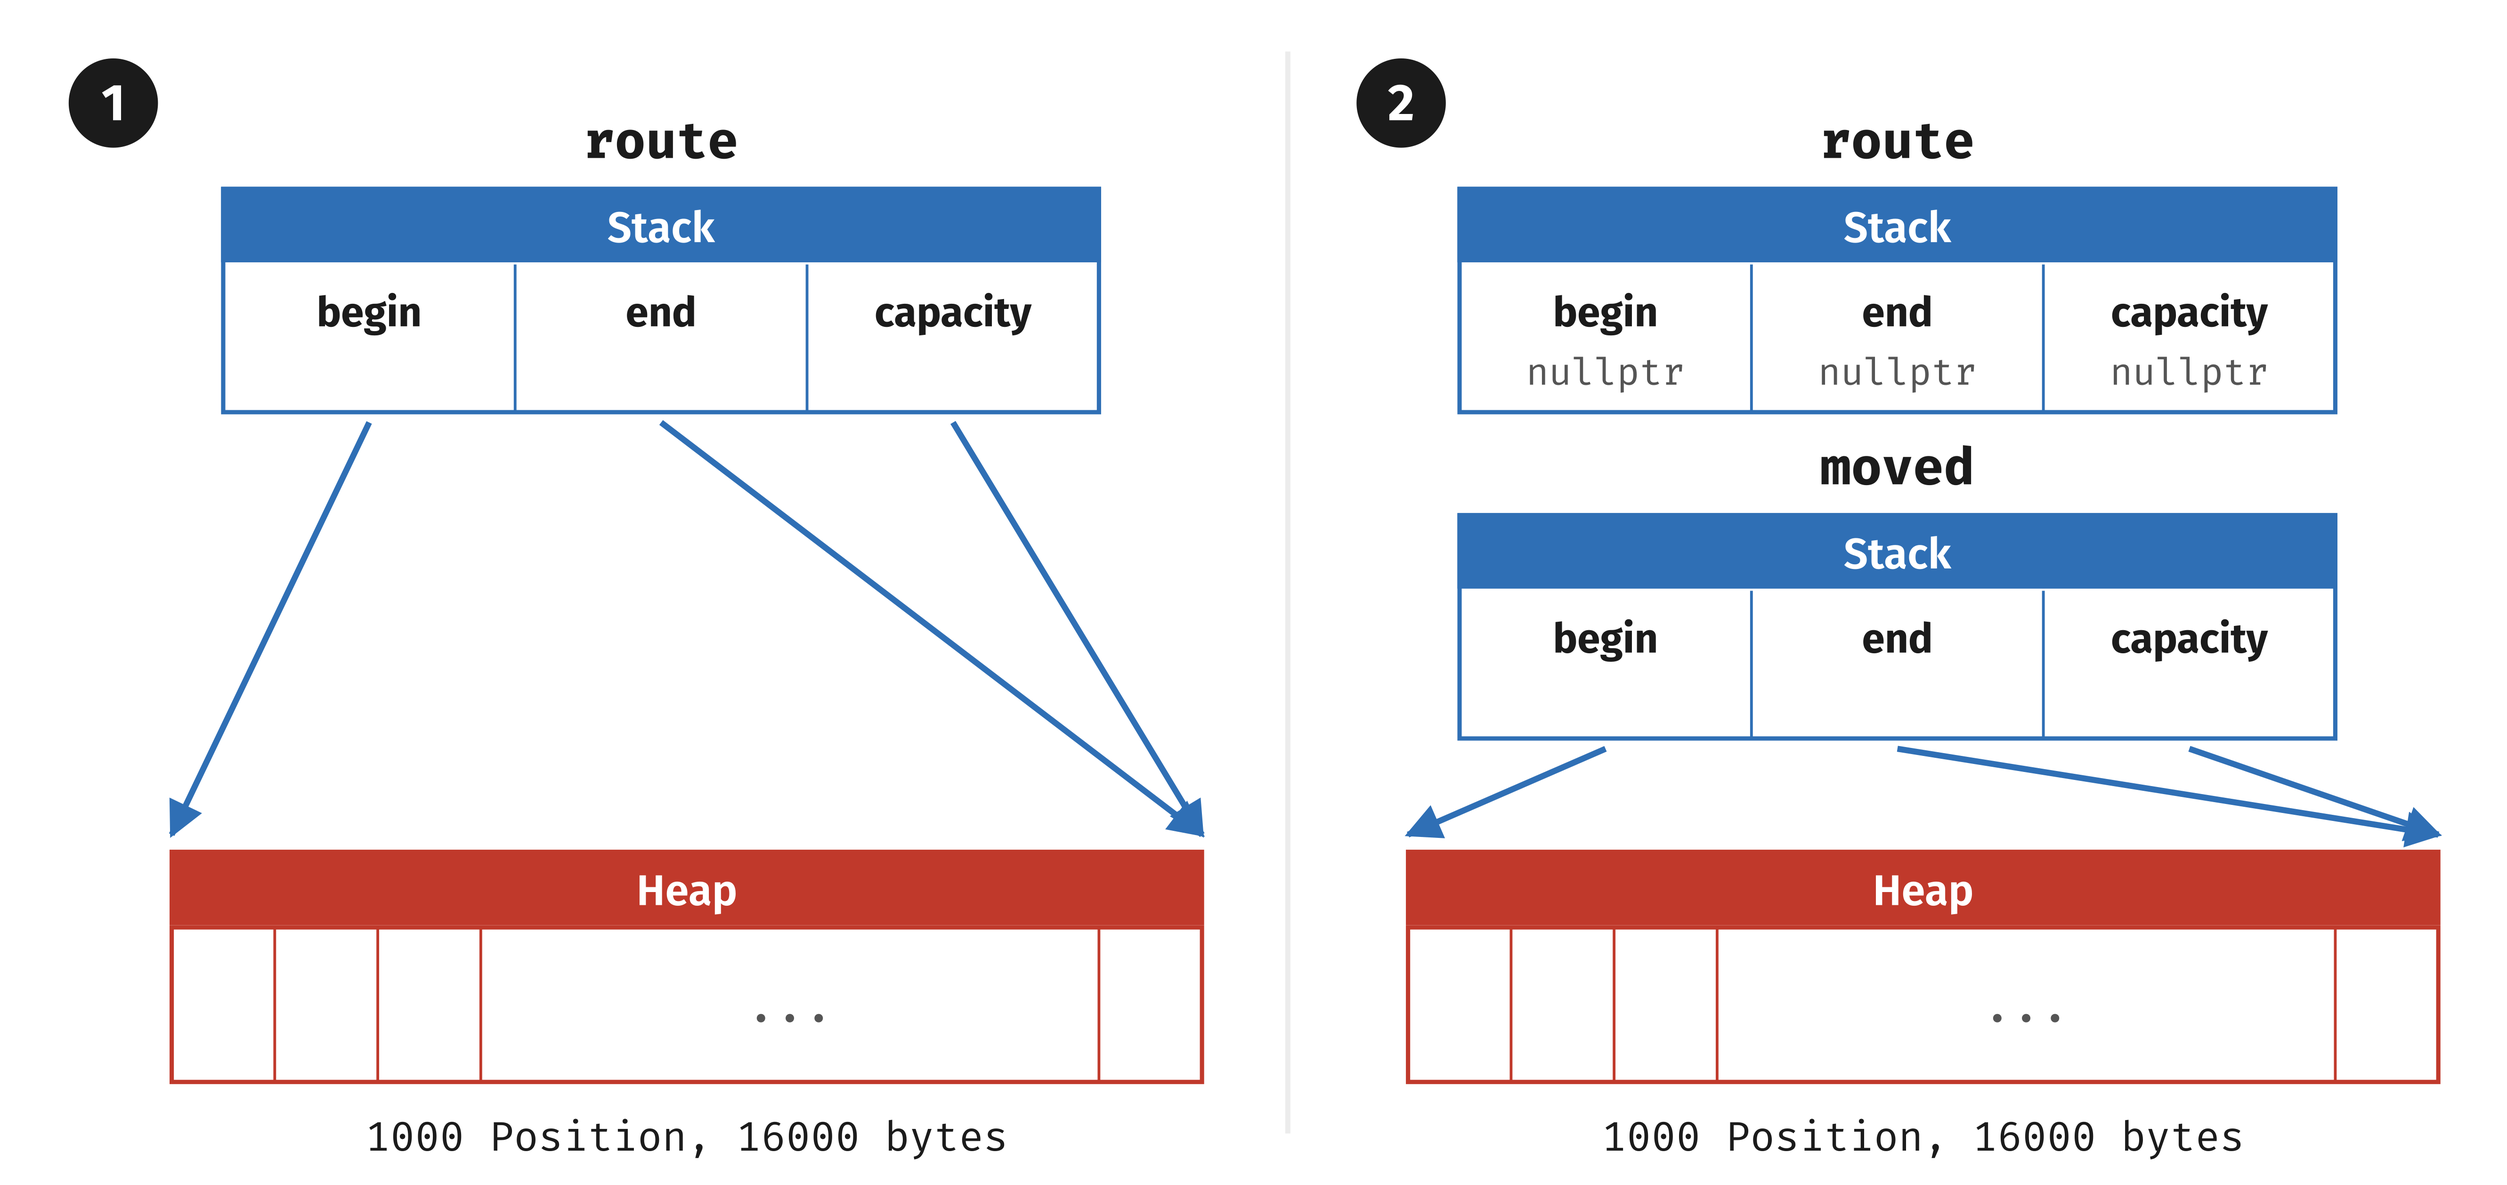
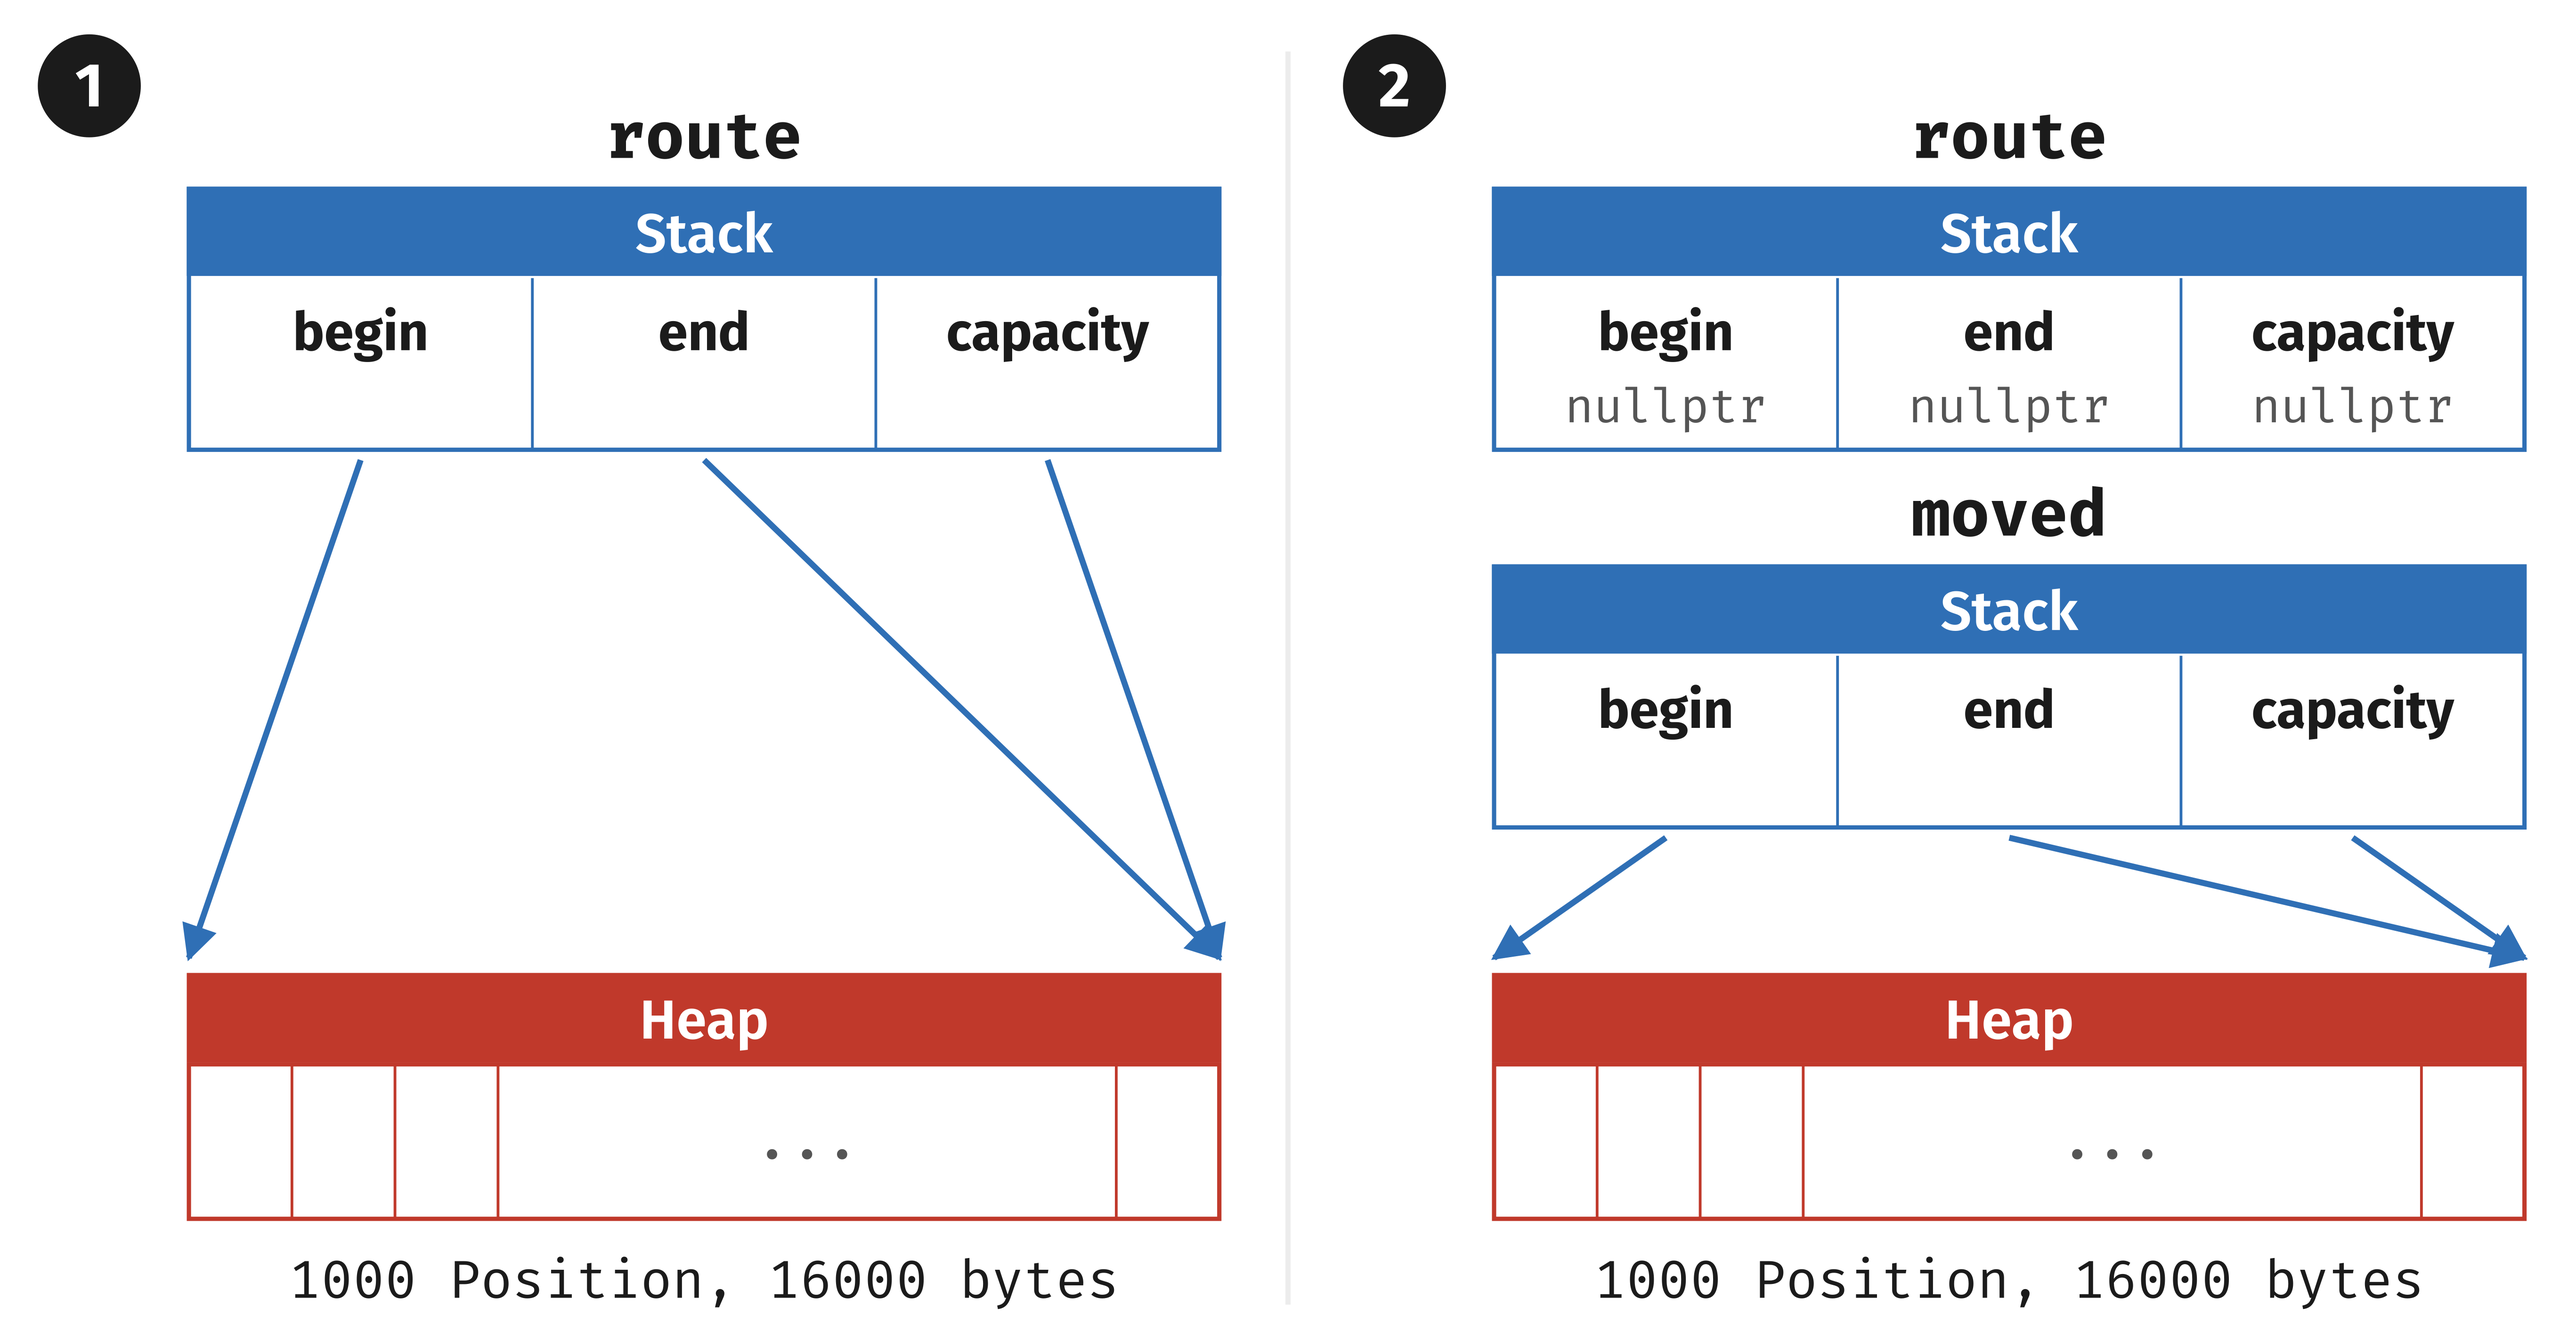
Lecture 7: Inside a Copy, as in the deck
Add the deck's new Inside a Copy section and figure, take the larger
move figure, and renumber the run commands after the new slide.

diff --git a/docs/source/lectures/lecture7/l7_lecture.rst b/docs/source/lectures/lecture7/l7_lecture.rst
@@ -257,6 +257,20 @@ Handing a Route to a Robot
 - The copy allocates a new block, 1000 × 16 bytes = 16000 bytes, and copies every ``Position``. ``route`` is unchanged.
 - The move allocates nothing. ``moved`` holds the block ``route`` had, at the same address, and ``route`` is left empty.
 
+Inside a Copy
+^^^^^^^^^^^^^
+
+.. figure:: /_static/images/l7/vector_copy.png
+   :alt: Two blue Stack boxes side by side, named route and copied, each with three fields, begin, end and capacity. Below each one is its own red Heap block labeled 1000 Position, 16000 bytes. Three blue arrows drop from each box's fields to its own block: begin to the first cell, end and capacity both to the end of the last cell. No arrow joins the two sides.
+   :align: center
+   :width: 100%
+
+   A ``std::vector`` and its copy: each one owns its own block.
+
+- After ``std::vector<Position> copied{route}``, each vector holds three pointers into its own block (`Handing a Route to a Robot`_: the two ``data()`` differ).
+- Two blocks of 16000 bytes now hold the same 1000 waypoints: 2 × 16000 = 32000 bytes.
+- Each vector frees its own block when it goes out of scope.
+
 Inside a Move
 ^^^^^^^^^^^^^
 
@@ -356,7 +370,7 @@ lvalues
    first_robot(fleet)  // a call that returns RobotStatus&
    "dock"              // a string literal: an array with an address
 
-- Each one names an object that lives on after the expression. ``702run week7_playground 17`` prints ``lvalue`` for all five.
+- Each one names an object that lives on after the expression. ``702run week7_playground 18`` prints ``lvalue`` for all five.
 - Test: you can take its address. ``&fleet[0]`` compiles.
 
 prvalues
@@ -472,7 +486,7 @@ Exercise 1: Name the Category
    make_robot(n).battery_pct   // 9
    ++n                         // 10
 
-- Write lvalue, xvalue or prvalue for each line. Then check: ``702run week7_playground 22``.
+- Write lvalue, xvalue or prvalue for each line. Then check: ``702run week7_playground 23``.
 
 rvalue References
 ^^^^^^^^^^^^^^^^^
@@ -705,7 +719,7 @@ The Leak, Fixed
      return true;     // and here
    }
 
-- ``702run week7_playground 33`` prints ``needs_charge(3): false`` and no LeakSanitizer report.
+- ``702run week7_playground 34`` prints ``needs_charge(3): false`` and no LeakSanitizer report.
 - Every path out of the function destroys ``robot``, and ``robot``'s destructor deletes the ``RobotStatus``. There is no ``delete`` to forget.
 
 One Owner Only
@@ -928,7 +942,7 @@ Exercise 2: Which Lines Compile
    RobotStatus* f{d.get()};                            // 7
    std::unique_ptr<RobotStatus> g{f};                  // 8
 
-- For each line: does it compile? If it compiles, is it correct? Then check in ``702run week7_playground 43`` and its comments.
+- For each line: does it compile? If it compiles, is it correct? Then check in ``702run week7_playground 44`` and its comments.
 
 ``std::shared_ptr``
 -------------------
@@ -948,7 +962,7 @@ Robot 3 is down to 14 %. It joins the charging queue, and it stays in the fleet.
 
 .. code-block:: cpp
 
-   std::vector<std::unique_ptr<RobotStatus>> fleet;   // slide 36
+   std::vector<std::unique_ptr<RobotStatus>> fleet;   // slide 37
    std::vector<RobotStatus*> charging_queue;
    charging_queue.push_back(fleet[2].get());         // looks, does not own
    fleet.erase(fleet.begin() + 2);                   // the queue dangles
@@ -1041,7 +1055,7 @@ The Last Owner Frees It
    after charging_queue.clear(): no owner left
 
 - The queue keeps robot 3 alive after the fleet lets go. That is what the raw pointer of `A Robot in Two Lists`_ could not do.
-- Neither list deletes the robot itself. Whichever lets go last does, and nothing leaks: ``702run week7_playground 49`` ends with no LeakSanitizer report.
+- Neither list deletes the robot itself. Whichever lets go last does, and nothing leaks: ``702run week7_playground 50`` ends with no LeakSanitizer report.
 
 .. _l7-shared-borrow:
 
@@ -1116,7 +1130,7 @@ Returning
 
 .. code-block:: cpp
 
-   std::unique_ptr<RobotStatus> make_robot(int id);  // slide 42
+   std::unique_ptr<RobotStatus> make_robot(int id);  // slide 43
 
    std::shared_ptr<RobotStatus> robot{make_robot(5)};  // compiles
    std::unique_ptr<RobotStatus> back{robot};           // does not compile
@@ -1180,7 +1194,7 @@ The Cycle, Measured
 
    SUMMARY: AddressSanitizer: 144 byte(s) leaked in 2 allocation(s).
 
-- ``702run week7_playground 56``. Both robots leak, one allocation each: lines 76 and 77 are the two ``std::make_shared`` calls.
+- ``702run week7_playground 57``. Both robots leak, one allocation each: lines 76 and 77 are the two ``std::make_shared`` calls.
 - 72 bytes each: a ``Robot`` (40 for the status, 16 for the ``std::shared_ptr``) and its 16-byte control block, in one ``std::make_shared`` allocation.
 - **Indirect**: each robot is reachable only from the other leaked robot.
 
@@ -1201,7 +1215,7 @@ Breaking It
    a.use_count(): 1, b.use_count(): 1
 
 - A ``std::weak_ptr`` made from a ``std::shared_ptr`` does not add to the count.
-- When ``a`` and ``b`` go out of scope, both counts reach 0 and both robots are deleted. ``702run week7_playground 57``: no LeakSanitizer report.
+- When ``a`` and ``b`` go out of scope, both counts reach 0 and both robots are deleted. ``702run week7_playground 58``: no LeakSanitizer report.
 
 .. note::
 
@@ -1227,7 +1241,7 @@ Reading a ``weak_ptr``
 
 - A ``std::weak_ptr`` has no ``->`` and no ``*``. ``lock()`` returns a ``std::shared_ptr``: the robot, or an empty one if it is gone.
 - While ``robot`` exists, it is one more owner, so the robot cannot be deleted in the middle of ``show``.
-- ``702run week7_playground 58``: ``robot 3: 14 %``, then, after the fleet lets go, ``the robot is gone``.
+- ``702run week7_playground 59``: ``robot 3: 14 %``, then, after the fleet lets go, ``the robot is gone``.
 
 See `A Dashboard of weak_ptr`_ under Further Reading.
 
@@ -1268,7 +1282,7 @@ Exercise 3: Predict the Counts
    b.reset();                                // 6
 
 - After each numbered line: how many ``std::shared_ptr``\ s own the robot, and is ``watch`` expired?
-- Check: ``702run week7_playground 60``.
+- Check: ``702run week7_playground 61``.
 
 Choosing a Pointer
 ------------------
